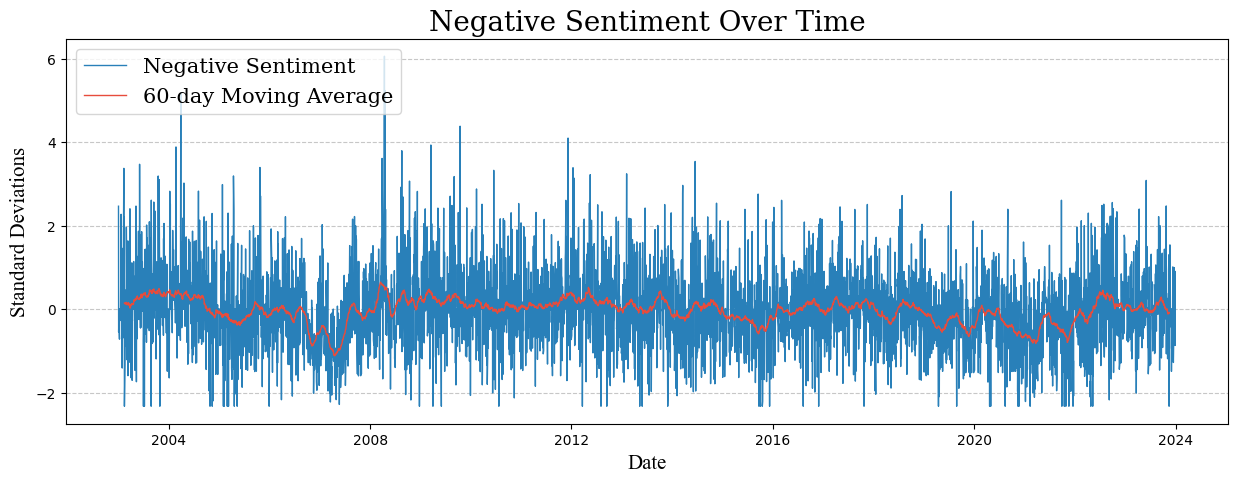
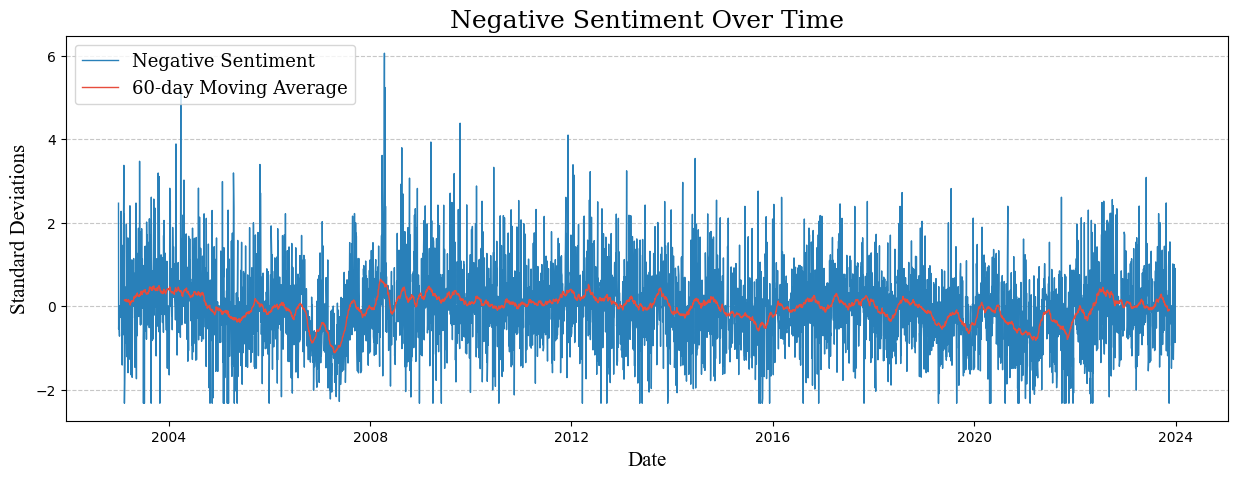
done with fint sizes

diff --git a/Plot_Trading_days_data.py b/Plot_Trading_days_data.py
@@ -61,11 +61,11 @@ ma_window = 60
 moving_average_sentiment = np.convolve(list(trading_days_data['Positive_Sentiment']), np.ones(ma_window)/ma_window, mode='valid')
 plt.plot(datetime_objs, trading_days_data['Positive_Sentiment'], label='Positive Sentiment', color='#2980b9', linewidth=1)
 plt.plot(datetime_objs[ma_window//2:-ma_window//2], moving_average_sentiment[1:], label='60-day Moving Average', color='#e74c3c', linewidth=1)
-plt.title('Positive Sentiment Over Time', fontsize=14, fontfamily='serif')
+plt.title('Positive Sentiment Over Time', fontsize=18, fontfamily='serif')
 plt.gca().xaxis.set_major_formatter(mdates.DateFormatter('%Y'))
-plt.legend(loc='upper left', prop={'family': 'serif', 'size': 11})
-plt.xlabel('Date', fontsize=13, fontname='Times New Roman')
-plt.ylabel('Standard Deviations', fontsize=13, fontname='Times New Roman')
+plt.legend(loc='upper left', prop={'family': 'serif', 'size': 13})
+plt.xlabel('Date', fontsize=15, fontname='Times New Roman')
+plt.ylabel('Standard Deviations', fontsize=15, fontname='Times New Roman')
 plt.grid(axis='y', linestyle='--', alpha=0.7)
 plt.tick_params(axis='both', which='major', labelsize=10)
 plt.savefig('Plots/Positive_Sentiment_Over_Time.png', bbox_inches='tight')
@@ -78,9 +78,9 @@ ma_window = 60
 moving_average_sentiment = np.convolve(list(trading_days_data['Negative_Sentiment']), np.ones(ma_window)/ma_window, mode='valid')
 plt.plot(datetime_objs, trading_days_data['Negative_Sentiment'], label='Negative Sentiment', color='#2980b9', linewidth=1)
 plt.plot(datetime_objs[ma_window//2:-ma_window//2], moving_average_sentiment[1:], label='60-day Moving Average', color='#e74c3c', linewidth=1)
-plt.title('Negative Sentiment Over Time', fontsize=20, fontfamily='serif')
+plt.title('Negative Sentiment Over Time', fontsize=18, fontfamily='serif')
 plt.gca().xaxis.set_major_formatter(mdates.DateFormatter('%Y'))
-plt.legend(loc='upper left', prop={'family': 'serif', 'size': 15})
+plt.legend(loc='upper left', prop={'family': 'serif', 'size': 13})
 plt.xlabel('Date', fontsize=15, fontname='Times New Roman')
 plt.ylabel('Standard Deviations', fontsize=15, fontname='Times New Roman')
 plt.grid(axis='y', linestyle='--', alpha=0.7)
@@ -165,14 +165,14 @@ print("SUM", sum(list(monthly_counts.values())))
 
 plt.figure(figsize=(12, 6))
 plt.plot(datetime_objs, list(trading_days_data['Returns']), label='RYAAY Returns', color='#2980b9', linewidth=1)
-plt.title('RYAAY Returns Over Time', fontsize=14, fontfamily='serif')
+plt.title('RYAAY Returns Over Time', fontsize=18, fontfamily='serif')
 plt.gca().xaxis.set_major_formatter(mdates.DateFormatter('%Y'))
-plt.legend(loc='upper left', prop={'family': 'serif', 'size': 11})
-plt.xlabel('Date', fontsize=13, fontname='Times New Roman')
-plt.ylabel('Standard Deviations', fontsize=13, fontname='Times New Roman')
+plt.legend(loc='upper left', prop={'family': 'serif', 'size': 13})
+plt.xlabel('Date', fontsize=15, fontname='Times New Roman')
+plt.ylabel('Standard Deviations', fontsize=15, fontname='Times New Roman')
 plt.grid(axis='y', linestyle='--', alpha=0.7)
 plt.tick_params(axis='both', which='major', labelsize=10)
-#plt.savefig('Plots/Returns_Over_Time.png', bbox_inches='tight')
+plt.savefig('Plots/Returns_Over_Time.png', bbox_inches='tight')
 #plt.show()
 
 plt.figure(figsize=(11, 6))
